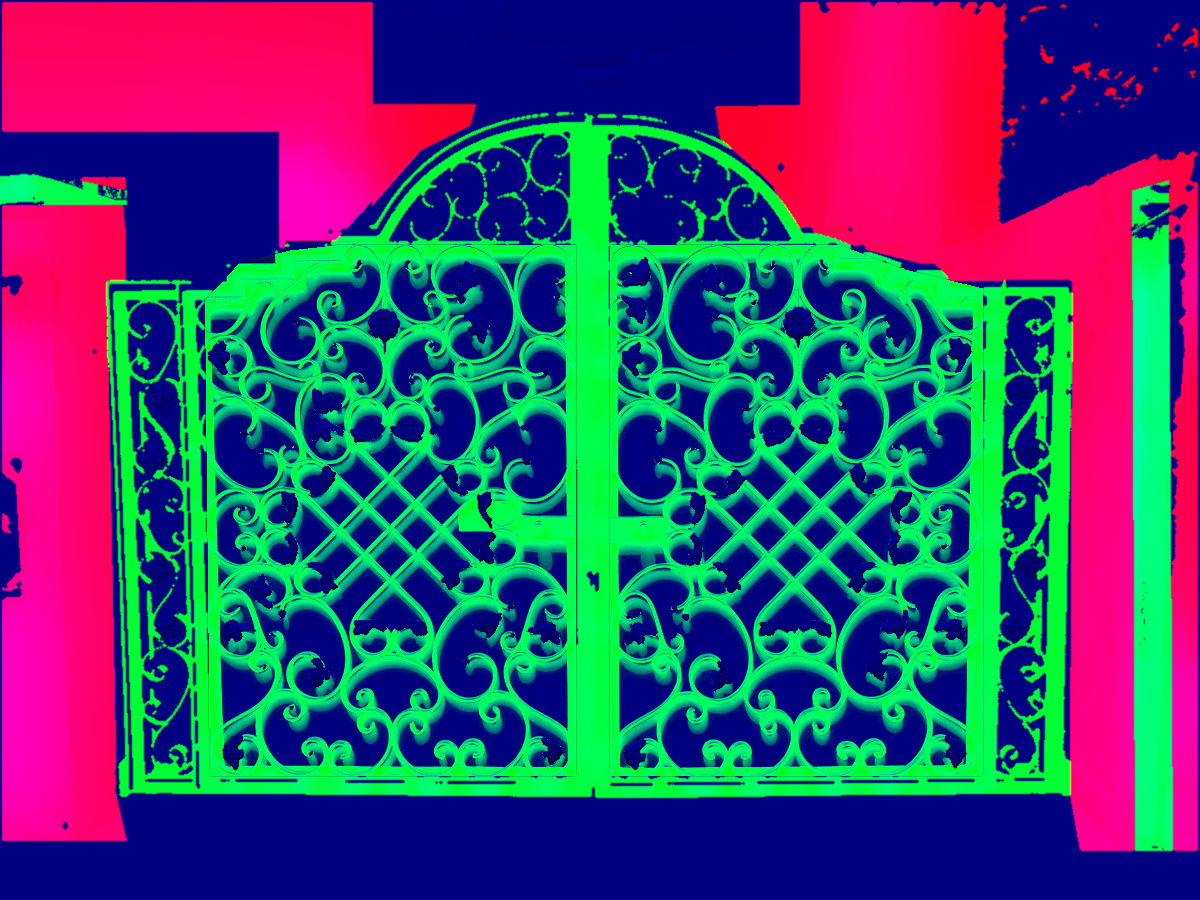
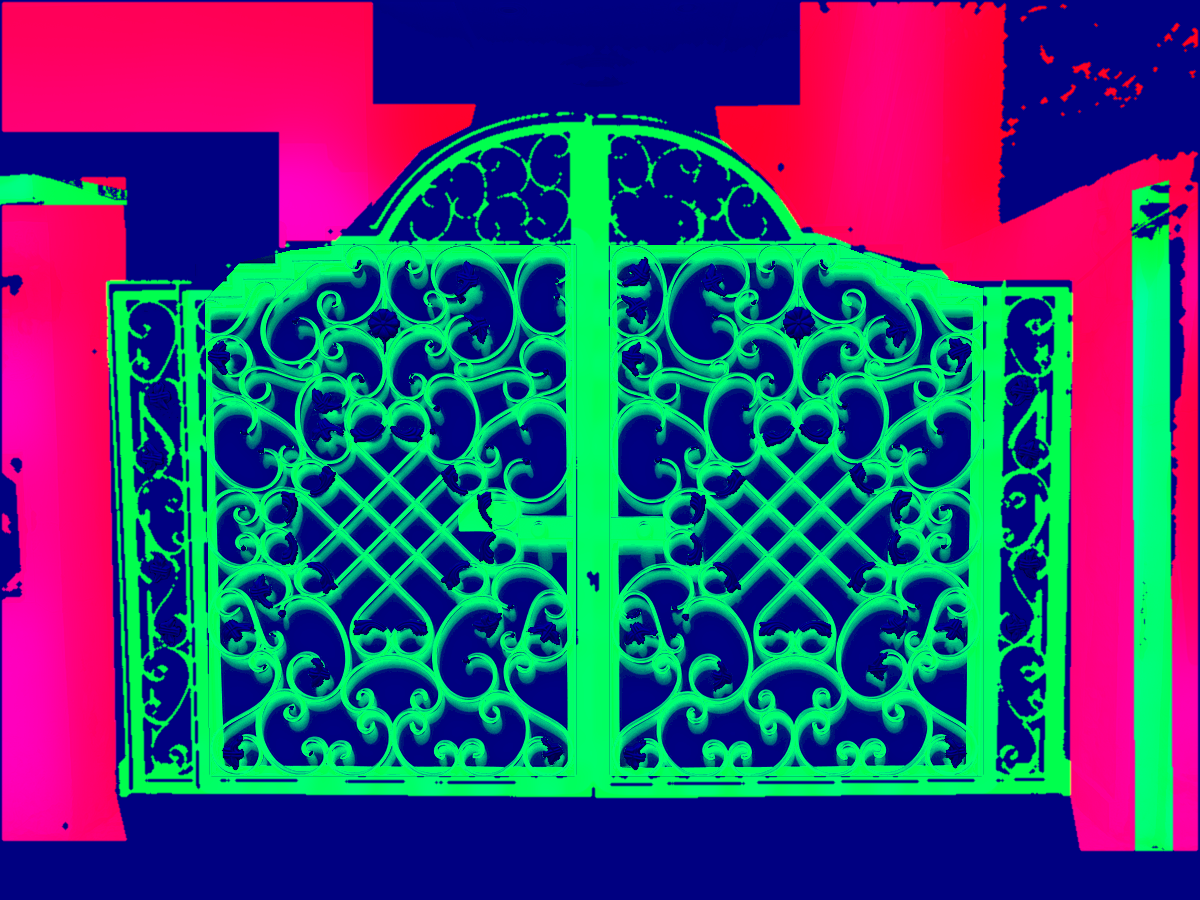
Gate close-up: metal no longer darker than the trim swatch
Claude-Session: https://claude.ai/code/session_01QxgMQVmJUEFPX2ERhwy2pN

diff --git a/index.html b/index.html
@@ -237,7 +237,7 @@ for (const k of ["body", "trim"]) { const m = SHADES.find(x => `${x[0]} ${x[1]}`
 const PHOTOS = {
   front: { photo: "img/front.jpg?v=202610151328", map: "img/front-map.png?v=202610151328", ceil: "img/front-extra.png?v=202610151328", real: "img/front-today.jpg?v=202610151328", label: "Front of the house" },
   court: { photo: "img/court.jpg?v=202610151328", map: "img/court-map.png?v=202610151328", ceil: "img/court-extra.png?v=202610151328", real: "img/court-today.jpg?v=202610151328", label: "Courtyard" },
-  gate: { photo: "img/gate.jpg?v=202610151328", map: "img/gate-map.png?v=202610151328", ceil: "img/gate-extra.png?v=202610151328", real: "img/gate-today.jpg?v=202610151328", label: "Main gate" },
+  gate: { photo: "img/gate.jpg?v=202610151328", map: "img/gate-map.png?v=202610151333", ceil: "img/gate-extra.png?v=202610151328", real: "img/gate-today.jpg?v=202610151328", label: "Main gate" },
 };
 const cv = document.getElementById("cv"), ctx = cv.getContext("2d", { willReadFrequently: true });
 const W = 1200, H = 900;
